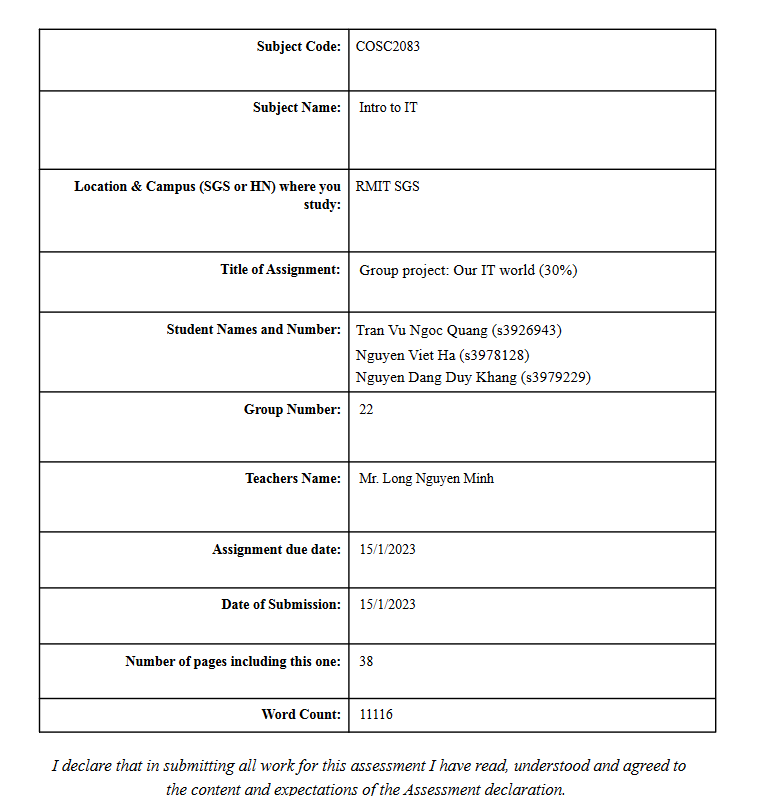
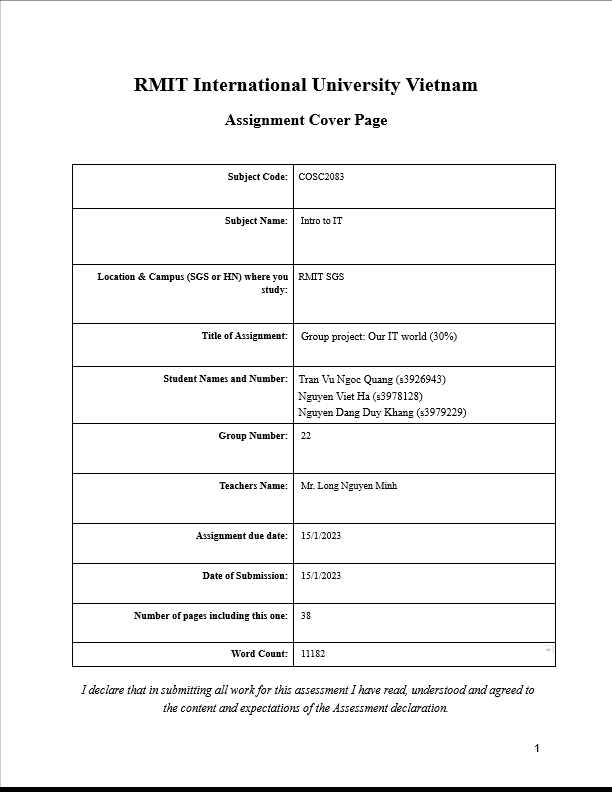
Added some lines to tools, fix word count

diff --git a/tools.html b/tools.html
@@ -52,7 +52,8 @@
     <a href="https://github.com/s3978128/Group22_IIT/commits/main">The audit trail can be viewed on our Github repository.</a>
 <p>
     The progress of making the website can be easily seen. The repository was created at the same time we start writing the report, however, we only started adding content into it later on when we have agreed on a good structure for the page.
-<br>We had put a navigation bar first before writing the report. This bar will help switching between different sections of the report become more convenient.
+<br>Parts that are unfinished are pushed to sub branches, and then we will merge it with the main branch later. The Page is deployed using the main branch.
+    <br>We had put a navigation bar first before writing the report. This bar will help switching between different sections of the report become more convenient.
 <br>The content of the website is identical to that of the report, however, instead of putting the entire content into one page, we have divided it to multiple pages that can easily be navigated using the navigation bar.
 <br>We have put effort into using the appropriate HTML and CSS so that the content looks easy on the eyes and best reflects the original report’s PDF file. 
 <br>Javascript is used for a scroll to top button, as the content of each page is quite long. Finally, navigation can be done at the end of each page with the previous/next buttons.
